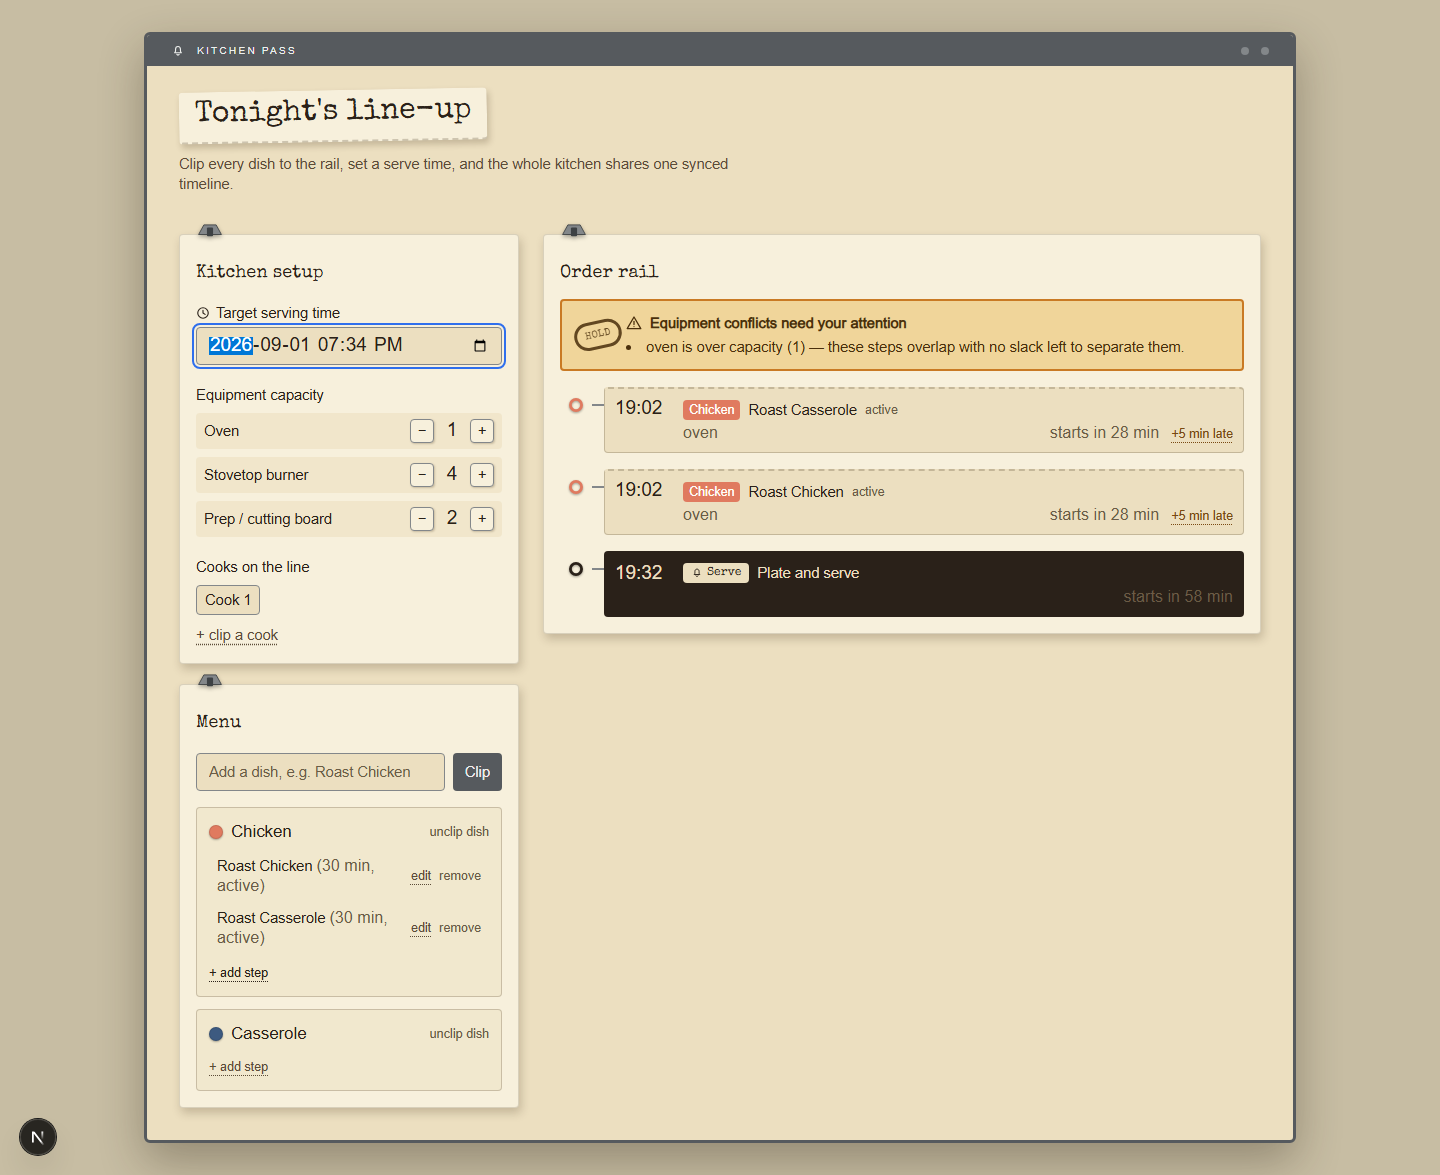
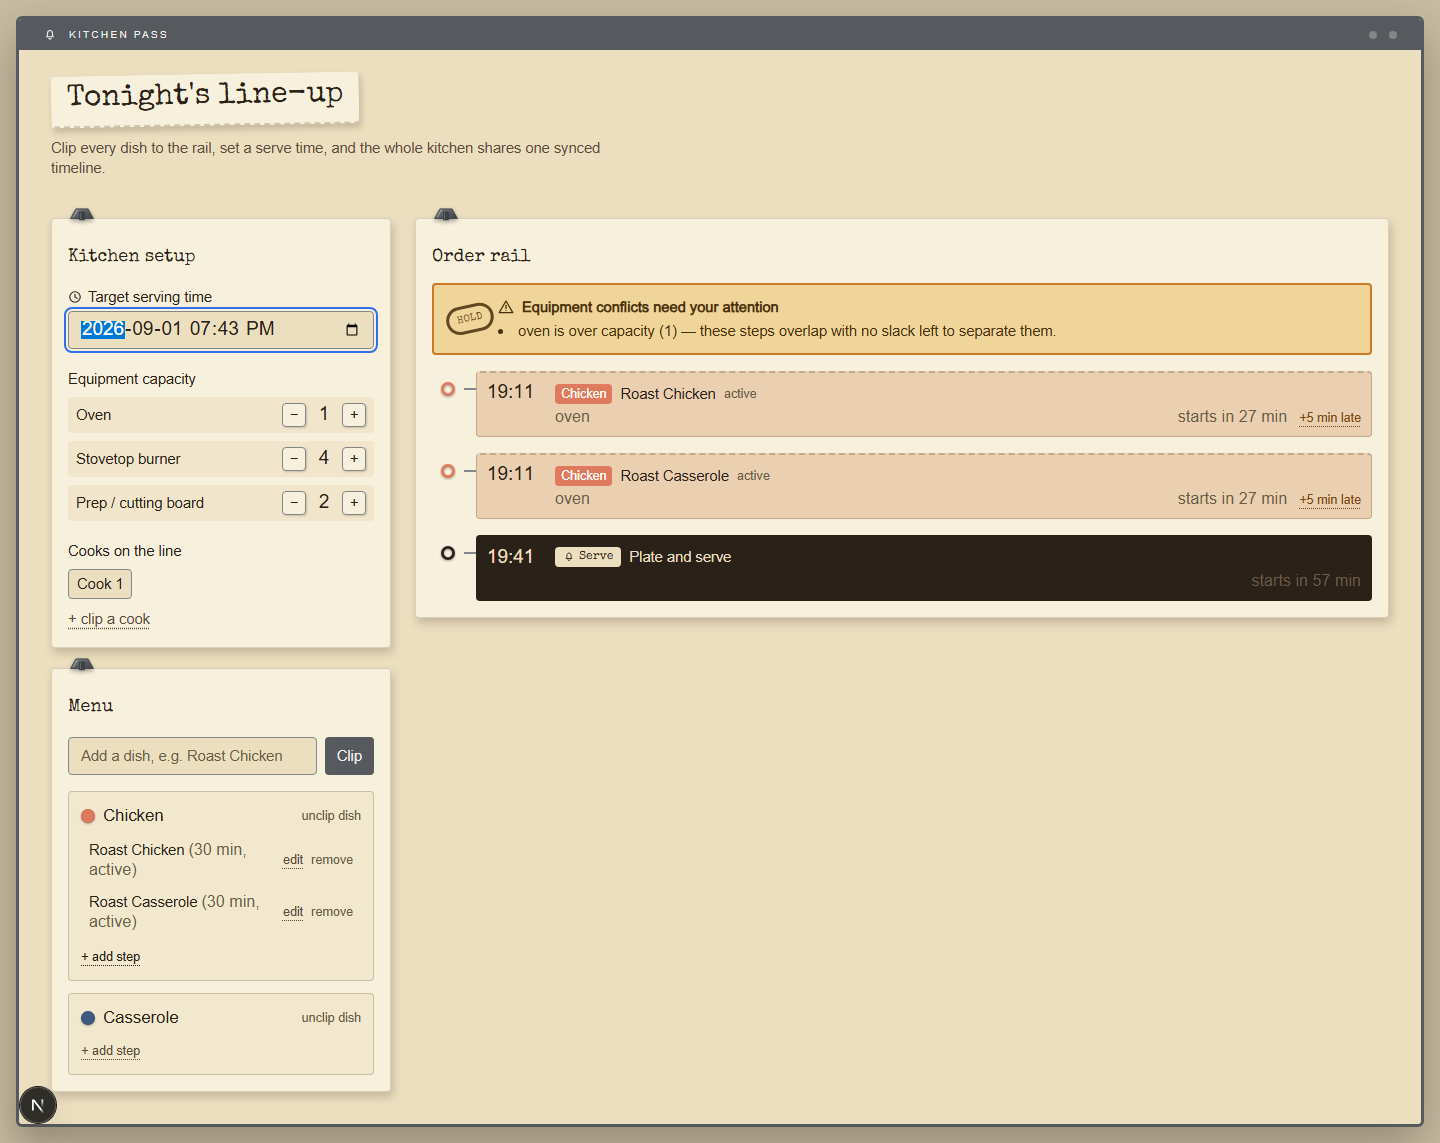
fix: address finish review — dimensional clips, colored ticket stock, tighter frame
The finish review found four real gaps: (1) the rail clip icon was a
flat two-tone silhouette that didn't read as steel — gave it a
gradient fill and highlight strokes; (2) "colored ticket stock per
dish" only ever showed up as a small badge, not the ticket itself —
each entry's card now gets a subtle dish-colored wash via
color-mix(); (3) the page shell had enough wall margin to read as a
framed picture rather than a pass frame filling the viewport —
tightened outer padding and widened the container; (4) the CSS
token/class were still named for the previous world's marker font
even though they now hold the stamped-typewriter face — renamed
--font-marker/.font-marker to --font-stamp/.font-stamp everywhere.

diff --git a/src/components/TimelineView.tsx b/src/components/TimelineView.tsx
@@ -48,14 +48,23 @@ export function TimelineView({ schedule, timeline }: TimelineViewProps) {
         className="absolute -top-3 left-4 h-4 w-7"
         style={{ filter: "drop-shadow(0 2px 2px rgba(0,0,0,0.35))" }}
       >
-        <path d="M3 13 L9 2 H23 L29 13 Z" fill="var(--frame-light)" stroke="var(--frame-dark)" strokeWidth="1" />
+        <defs>
+          <linearGradient id="clip-grad-timeline" x1="0" y1="0" x2="1" y2="1">
+            <stop offset="0%" stopColor="var(--frame-light)" />
+            <stop offset="55%" stopColor="var(--frame)" />
+            <stop offset="100%" stopColor="var(--frame-dark)" />
+          </linearGradient>
+        </defs>
+        <path d="M3 13 L9 2 H23 L29 13 Z" fill="url(#clip-grad-timeline)" stroke="var(--frame-dark)" strokeWidth="1" />
+        <path d="M6 11.5 L10.5 3.5" stroke="var(--frame-label)" strokeWidth="1" strokeLinecap="round" opacity="0.55" />
         <rect x="12.5" y="5" width="7" height="10" rx="1.2" fill="var(--frame-dark)" />
+        <rect x="13.6" y="6" width="1.2" height="8" rx="0.6" fill="var(--frame-light)" opacity="0.6" />
       </svg>
       <div className="mb-3 flex flex-wrap items-center justify-between gap-2">
-        <h2 className="font-marker text-lg text-[var(--ink)]">Order rail</h2>
+        <h2 className="font-stamp text-lg text-[var(--ink)]">Order rail</h2>
         {!schedule.isFeasible && (
           <span className="flex items-center gap-2 rounded-sm border-2 border-[var(--red)] bg-[var(--red-surface)] px-2 py-1 text-xs font-semibold text-[var(--red-ink)]">
-            <span className="font-marker -rotate-6 rounded-full border-2 border-[var(--red-ink)] px-1.5 py-px text-[9px] uppercase tracking-wide text-[var(--red-ink)]">
+            <span className="font-stamp -rotate-6 rounded-full border-2 border-[var(--red-ink)] px-1.5 py-px text-[9px] uppercase tracking-wide text-[var(--red-ink)]">
               Stop
             </span>
             Not enough time before target — start earlier or simplify the menu
@@ -125,12 +134,13 @@ export function TimelineView({ schedule, timeline }: TimelineViewProps) {
 
               <div
                 className={`flex-1 rounded-sm border-x border-b p-2.5 ${
-                  isServe
-                    ? "border-[var(--ink)] bg-[var(--ink)] text-[var(--board)]"
-                    : "border-[var(--board-edge)] bg-[var(--board)]"
+                  isServe ? "border-[var(--ink)] bg-[var(--ink)] text-[var(--board)]" : "border-[var(--board-edge)]"
                 }`}
                 style={{
                   borderTop: `2px dashed ${isServe ? "var(--ink)" : "var(--board-edge)"}`,
+                  backgroundColor: isServe
+                    ? undefined
+                    : `color-mix(in srgb, ${primaryRecipe?.color ?? "#8b9096"} 16%, var(--board))`,
                 }}
               >
                 <div className="flex items-baseline gap-3">
@@ -154,7 +164,7 @@ export function TimelineView({ schedule, timeline }: TimelineViewProps) {
                       </span>
                     )}
                     {isServe && (
-                      <span className="font-marker inline-flex shrink-0 items-center gap-1 rounded-sm bg-[var(--board)] px-2 py-0.5 text-xs text-[var(--ink)]">
+                      <span className="font-stamp inline-flex shrink-0 items-center gap-1 rounded-sm bg-[var(--board)] px-2 py-0.5 text-xs text-[var(--ink)]">
                         <BellIcon /> Serve
                       </span>
                     )}

diff --git a/src/app/page.tsx b/src/app/page.tsx
@@ -16,8 +16,8 @@ export default function Home() {
   const timelinePanelClass = mobileTab === "timeline" ? "block" : "hidden lg:block";
 
   return (
-    <div className="min-h-full bg-[var(--wall)] px-3 py-4 sm:px-6 sm:py-8">
-      <div className="mx-auto max-w-6xl rounded-md border-[3px] border-[var(--frame)] bg-[var(--board)] shadow-[0_18px_45px_var(--wall-shadow)]">
+    <div className="min-h-full bg-[var(--wall)] px-2 py-2 sm:px-4 sm:py-4">
+      <div className="mx-auto max-w-[100rem] rounded-md border-[3px] border-[var(--frame)] bg-[var(--board)] shadow-[0_18px_45px_var(--wall-shadow)]">
         {/* the steel rail along the top of the pass */}
         <div className="flex items-center gap-3 rounded-t-[3px] bg-[var(--frame)] px-4 py-2 sm:px-6">
           <BellIcon className="h-3.5 w-3.5 text-[var(--frame-label)]" />
@@ -33,7 +33,7 @@ export default function Home() {
             className="inline-block -rotate-1 rounded-sm bg-[var(--paper)] px-4 pb-3 pt-2 shadow-[2px_4px_6px_var(--board-edge)]"
             style={{ borderBottom: "2px dashed var(--board-edge)" }}
           >
-            <h1 className="font-marker text-2xl leading-none text-[var(--ink)] sm:text-3xl">
+            <h1 className="font-stamp text-2xl leading-none text-[var(--ink)] sm:text-3xl">
               Tonight&apos;s line-up
             </h1>
           </div>
@@ -68,7 +68,7 @@ export default function Home() {
             {!error && schedule && <TimelineView schedule={schedule} timeline={timeline} />}
             {!error && !schedule && (
               <div className="rounded-sm border-2 border-dashed border-[var(--ink-faint)] p-10 text-center">
-                <p className="font-marker text-lg text-[var(--ink-muted)]">Rail&apos;s empty</p>
+                <p className="font-stamp text-lg text-[var(--ink-muted)]">Rail&apos;s empty</p>
                 <p className="mx-auto mt-2 max-w-xs text-sm text-[var(--ink-muted)]">
                   Set a target serving time and clip at least one dish to see the synced timeline.
                 </p>

diff --git a/src/components/KitchenSetupPanel.tsx b/src/components/KitchenSetupPanel.tsx
@@ -18,7 +18,7 @@ export function KitchenSetupPanel() {
   return (
     <section className="relative rounded-sm border border-[var(--paper-edge)] bg-[var(--paper)] p-4 pt-6 shadow-[2px_5px_10px_var(--board-edge)]">
       <RailClip />
-      <h2 className="font-marker mb-4 text-lg text-[var(--ink)]">Kitchen setup</h2>
+      <h2 className="font-stamp mb-4 text-lg text-[var(--ink)]">Kitchen setup</h2>
 
       <label className="mb-5 block">
         <span className="mb-1 flex items-center gap-1.5 text-sm font-medium text-[var(--ink)]">
@@ -126,8 +126,17 @@ function RailClip() {
       className="absolute -top-3 left-4 h-4 w-7"
       style={{ filter: "drop-shadow(0 2px 2px rgba(0,0,0,0.35))" }}
     >
-      <path d="M3 13 L9 2 H23 L29 13 Z" fill="var(--frame-light)" stroke="var(--frame-dark)" strokeWidth="1" />
+      <defs>
+        <linearGradient id="clip-grad-setup" x1="0" y1="0" x2="1" y2="1">
+          <stop offset="0%" stopColor="var(--frame-light)" />
+          <stop offset="55%" stopColor="var(--frame)" />
+          <stop offset="100%" stopColor="var(--frame-dark)" />
+        </linearGradient>
+      </defs>
+      <path d="M3 13 L9 2 H23 L29 13 Z" fill="url(#clip-grad-setup)" stroke="var(--frame-dark)" strokeWidth="1" />
+      <path d="M6 11.5 L10.5 3.5" stroke="var(--frame-label)" strokeWidth="1" strokeLinecap="round" opacity="0.55" />
       <rect x="12.5" y="5" width="7" height="10" rx="1.2" fill="var(--frame-dark)" />
+      <rect x="13.6" y="6" width="1.2" height="8" rx="0.6" fill="var(--frame-light)" opacity="0.6" />
     </svg>
   );
 }

diff --git a/src/components/RecipeBuilder.tsx b/src/components/RecipeBuilder.tsx
@@ -42,10 +42,19 @@ export function RecipeBuilder() {
         className="absolute -top-3 left-4 h-4 w-7"
         style={{ filter: "drop-shadow(0 2px 2px rgba(0,0,0,0.35))" }}
       >
-        <path d="M3 13 L9 2 H23 L29 13 Z" fill="var(--frame-light)" stroke="var(--frame-dark)" strokeWidth="1" />
+        <defs>
+          <linearGradient id="clip-grad-menu" x1="0" y1="0" x2="1" y2="1">
+            <stop offset="0%" stopColor="var(--frame-light)" />
+            <stop offset="55%" stopColor="var(--frame)" />
+            <stop offset="100%" stopColor="var(--frame-dark)" />
+          </linearGradient>
+        </defs>
+        <path d="M3 13 L9 2 H23 L29 13 Z" fill="url(#clip-grad-menu)" stroke="var(--frame-dark)" strokeWidth="1" />
+        <path d="M6 11.5 L10.5 3.5" stroke="var(--frame-label)" strokeWidth="1" strokeLinecap="round" opacity="0.55" />
         <rect x="12.5" y="5" width="7" height="10" rx="1.2" fill="var(--frame-dark)" />
+        <rect x="13.6" y="6" width="1.2" height="8" rx="0.6" fill="var(--frame-light)" opacity="0.6" />
       </svg>
-      <h2 className="font-marker mb-4 text-lg text-[var(--ink)]">Menu</h2>
+      <h2 className="font-stamp mb-4 text-lg text-[var(--ink)]">Menu</h2>
 
       <div className="mb-4 flex gap-2">
         <input

diff --git a/src/components/ConflictBanner.tsx b/src/components/ConflictBanner.tsx
@@ -11,7 +11,7 @@ export function ConflictBanner({ conflicts }: ConflictBannerProps) {
     <div className="relative overflow-hidden rounded-sm border-2 border-[var(--amber)] bg-[var(--amber-surface)] py-3 pl-16 pr-3 text-sm text-[var(--amber-ink)]">
       <div
         aria-hidden
-        className="font-marker absolute left-3 top-1/2 -translate-y-1/2 -rotate-12 rounded-full border-[3px] border-[var(--amber-ink)] px-2 py-1 text-[10px] uppercase tracking-wide text-[var(--amber-ink)]"
+        className="font-stamp absolute left-3 top-1/2 -translate-y-1/2 -rotate-12 rounded-full border-[3px] border-[var(--amber-ink)] px-2 py-1 text-[10px] uppercase tracking-wide text-[var(--amber-ink)]"
         style={{ opacity: 0.85 }}
       >
         Hold

diff --git a/src/app/globals.css b/src/app/globals.css
@@ -65,7 +65,7 @@
   --color-foreground: var(--ink);
   --font-sans: var(--font-geist-sans);
   --font-mono: var(--font-geist-mono);
-  --font-marker: var(--font-marker);
+  --font-stamp: var(--font-stamp);
 }
 
 @media (prefers-color-scheme: dark) {
@@ -121,8 +121,8 @@ body {
   font-family: var(--font-geist-sans), Arial, Helvetica, sans-serif;
 }
 
-.font-marker {
-  font-family: var(--font-marker), var(--font-geist-sans), sans-serif;
+.font-stamp {
+  font-family: var(--font-stamp), var(--font-geist-sans), sans-serif;
 }
 
 @keyframes spine-draw {

diff --git a/src/app/layout.tsx b/src/app/layout.tsx
@@ -13,7 +13,7 @@ const geistMono = Geist_Mono({
 });
 
 const marker = Special_Elite({
-  variable: "--font-marker",
+  variable: "--font-stamp",
   weight: "400",
   subsets: ["latin"],
 });
